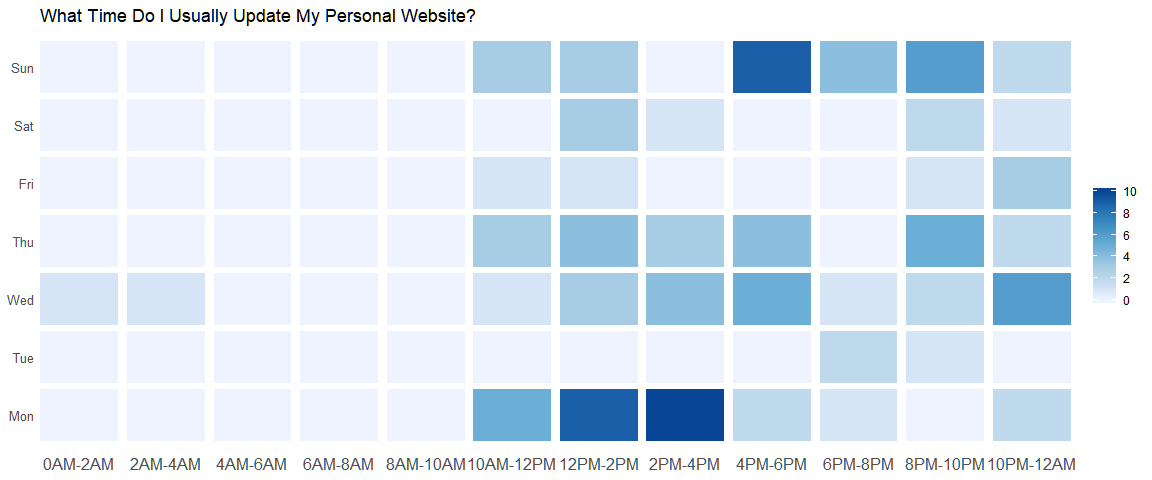
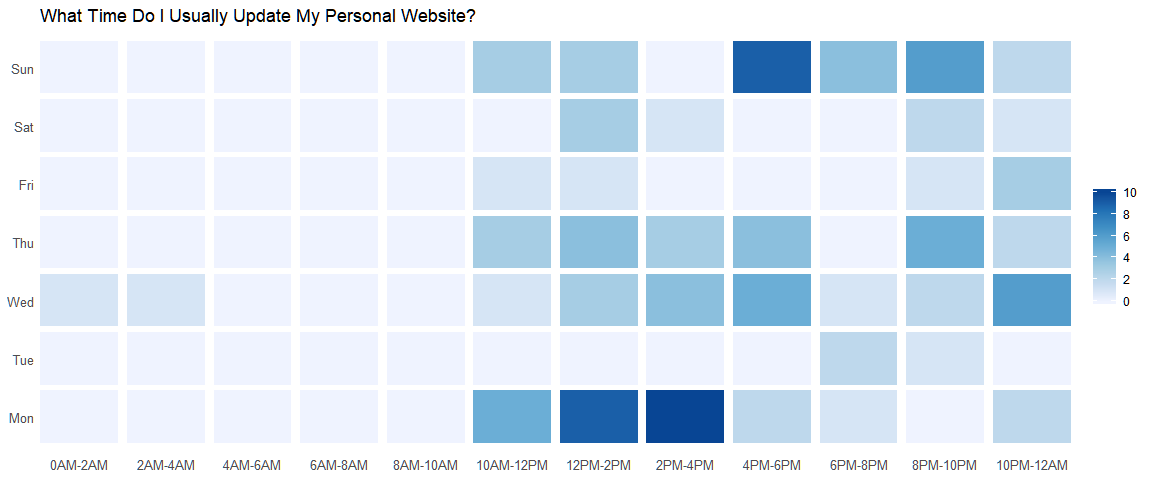
update the size of x axis

diff --git a/2019-12-24_geom_tile/README.html b/2019-12-24_geom_tile/README.html
@@ -422,10 +422,10 @@ dat3 &lt;- data.frame(wday = rep(wday(1:7, label = TRUE), each = 12),
   theme(axis.ticks = element_blank(),
         axis.title = element_blank(),
         axis.text.y = element_text(size = 10),
-        axis.text.x = element_text(size = 12),
+        axis.text.x = element_text(size = 10),
         legend.title = element_blank(),
         panel.grid = element_blank())</code></pre>
[2 lines of base64/hex data omitted]
 
 
 

diff --git a/2019-12-24_geom_tile/README.md b/2019-12-24_geom_tile/README.md
@@ -83,7 +83,7 @@ ggplot(dat3, aes(hour, wday)) +
   theme(axis.ticks = element_blank(),
         axis.title = element_blank(),
         axis.text.y = element_text(size = 10),
-        axis.text.x = element_text(size = 12),
+        axis.text.x = element_text(size = 10),
         legend.title = element_blank(),
         panel.grid = element_blank())
 ```

diff --git a/README.md b/README.md
@@ -71,7 +71,7 @@
 # How to make a heatmap using `ggplot2` and `reticulate`
 
 <p align="center">
-  <img src="2019-12-24_geom_tile/README_files/figure-html/unnamed-chunk-4-1.png" width="800"/>
+  <img src="2019-12-24_geom_tile/README_files/figure-html/unnamed-chunk-4-1.png" width="900"/>
 <p>
 
 
